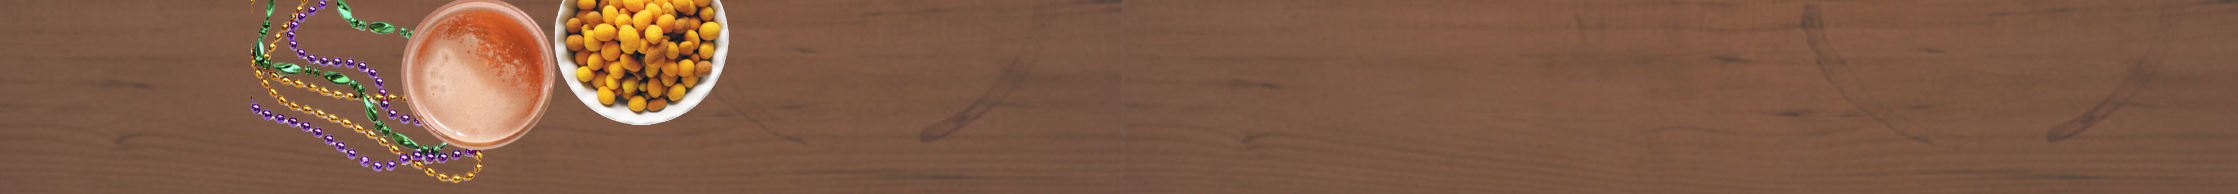
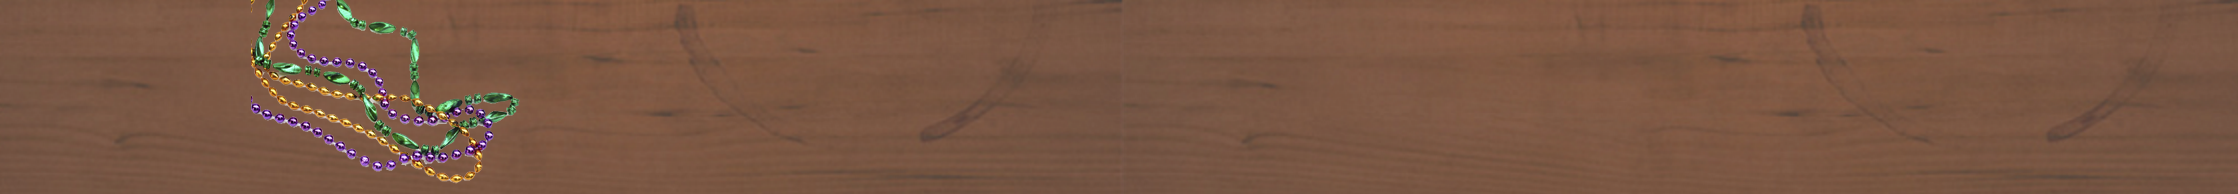
changed header with better spread of items

Changed region(s): [[0.1542, 0.0, 0.3391, 0.7732]]

diff --git a/src/Bigrivers.Client/Bigrivers.Client.WebApplication/Content/Site.css b/src/Bigrivers.Client/Bigrivers.Client.WebApplication/Content/Site.css
@@ -7,7 +7,7 @@
 body {
     padding-top: 50px;
     background-image: url(/Images/browntexture.jpg);
-    background-size: 100%;
+    background-size: cover;
 }
 
 .clear {
@@ -51,14 +51,6 @@ h1.page-title {
     width: 100px;
     height: 75px;
     margin-left: 15px;
-}
-
-@media(max-width: 1600px) {
-    @media(min-width: 768px) {
-        .navbar-nav {
-            margin-left: 220px;
-        }
-    }
 }
 
 /* Styling for the News Archive */
@@ -112,29 +104,52 @@ div.news-archive p a {
     vertical-align: middle;
 }
 
-.header-buttons {
-    position: absolute;
-    left: 530px;
-    top: 123px;
-    width: 225px;
-    height: 75px;
+.header-items {
+    margin-left: auto;
+    margin-right: auto;
+    width: 510px;
+    margin-top: -60px;
 }
 
-.header-yt {
-    position: absolute;
-    bottom: 0px;
+.header-beer {
+    float: left;
+    height: 150px;
+    width: 150px;
+    margin-top: 35px;
+    margin-left: 160px;
+}
+
+.header-peanuts {
+    float: left;
+    height: 180px;
+    width: 180px;
+}
+
+.header-buttons {
+    float: right;
+    width: 120px;
+    margin-right: 20px;
+    margin-top: 18px;
+}
+
+.header-yt{
+    width: 60px;
+    height: 60px;
+    float: left;
 }
 
 .header-fb {
-    position: absolute;
-    bottom: 0px;
-    left: 75px;
+    width: 60px;
+    height: 60px;
+    float: left;
+    margin-top: 15px;
 }
 
 .header-tw {
-    position: absolute;
-    bottom: 0px;
-    left: 150px;
+    width: 60px;
+    height: 60px;
+    margin-left: 15px;
+    margin-top: -10px;
 }
 
 
@@ -155,8 +170,9 @@ div.news-archive p a {
     .menuitem-link {
         color: black !important;
         margin-bottom: -20px;
+        margin-top: 5px;
         font-family: "mari&david";
-        font-size: 25px;
+        font-size: 36px;
     }
 }
 
@@ -184,6 +200,7 @@ div.news-archive p a {
     position: absolute;
     float: left;
     margin-top: -15px;
+    z-index: -1;
 }
 
 /* Frontpage Buttons*/
